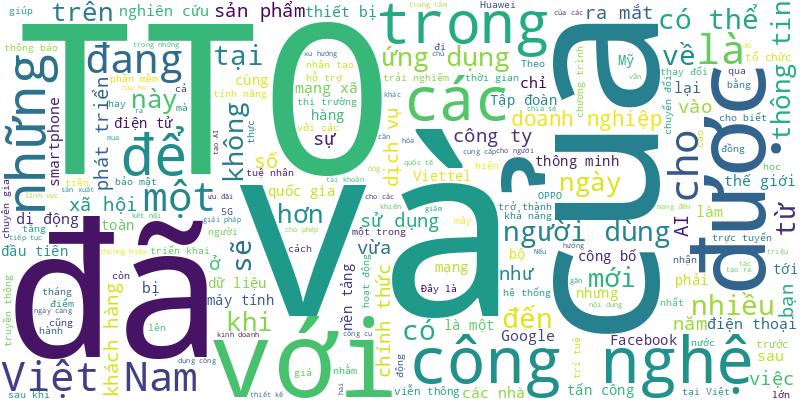
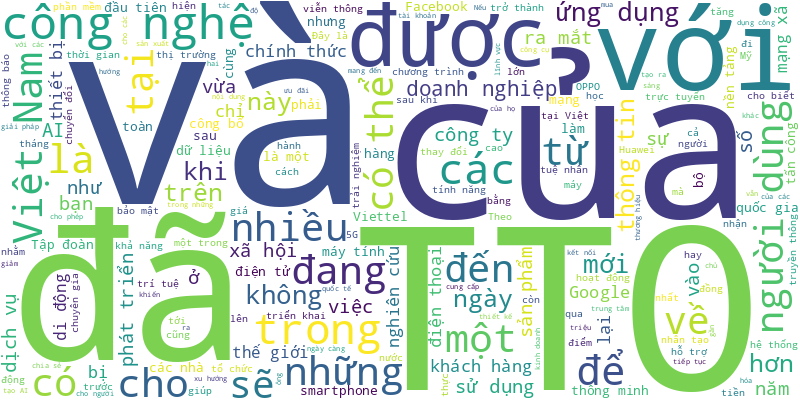
🍀 = 20%

diff --git a/README.md b/README.md
@@ -1,6 +1,17 @@
 # Tuoi Tre RSS 
 
 ## Giáo dục 
+- Kỳ thi độc lập, đánh giá năng lực của Trường đại học Sư phạm Hà Nội năm 2025 sẽ thi vào ngày 17 và 18-5-2025. Từ năm 2026, kỳ thi bổ sung thêm các môn giáo dục kinh tế và pháp luật, tin học, công nghệ.
+- Giáo viên phải đăng ký dạy thêm, đóng thuế rõ ràng như các ngành nghề khác.
+- UBND tỉnh Khánh Hòa cho hay sẽ sửa chữa và bàn giao khu ký túc xá sinh viên Nha Trang bỏ hoang nhiều năm cho Trường đại học Khánh Hòa quản lý.
+- Chiều 19-11, gần 40 học sinh Trường THCS Chi Lăng (quận 4, TP.HCM) đến tham quan và học tập thực tế tại Nhà máy mì Acecook Việt Nam.
+- Số sinh viên quốc tế tại Mỹ năm học 2023-2024 đã đạt mức cao kỷ lục, với hơn 1,1 triệu sinh viên, tăng 6,6% so với năm trước.
+- Sáng 21-11, cuộc thi quốc tế về nghiên cứu và thiết kế thiết bị bay không người lái (UAV Competition 2024) cho sinh viên đã diễn ra tại Trường đại học Tôn Đức Thắng.
+- Không khó để bắt gặp hình ảnh sinh viên đi xe không đội mũ bảo hiểm, tống ba, phóng nhanh… trên nhiều tuyến đường tại làng đại học TP.HCM.
+- Trường THPT Nông Cống 2 vừa có quyết định đình chỉ học tập đối với 3 học sinh liên quan vụ đánh một nữ sinh bị gãy đốt sống cổ, phải điều trị gần 2 tháng nay.
+- Sở Giáo dục và Đào tạo TP.HCM vừa có văn bản hướng dẫn xác định nhiệm vụ chuyên môn của giáo viên trong hè.
+- Gửi trả lại món quà là 500.000 đồng phụ huynh chuyển khoản, thầy giáo nhắn: "Phụ huynh không nên vật chất hóa những món quà nhân Ngày Nhà giáo Việt Nam".
+- Bộ trưởng Bộ Giáo dục Abyei bày tỏ lòng cảm ơn tới các chiến sĩ "mũ nồi xanh" Việt Nam luôn yêu thương, chia sẻ và giúp đỡ người dân địa phương bằng những tình cảm chân thành và sâu sắc nhất, đặc biệt là đối với các cháu học sinh.
 - Ngày 20-11, Quốc hội thảo luận về dự thảo Luật Nhà giáo. Các nội dung liên quan chính sách đặc thù về tiền lương, tuyển dụng nhà giáo, dạy thêm đã nhận được nhiều ý kiến thảo luận của đại biểu.
 - Hành trình dạy học đối với cô giáo Phạm Minh Trang, giáo viên lớp 1/1 Trường tiểu học Đống Đa, quận Tân Bình, TP.HCM, là không ngừng đổi mới.
 - Giải thưởng Lê Văn Thới do giáo sư Lê Ngọc Thạch tài trợ vừa được tiếp tục trao cho người học có kết quả nghiên cứu khoa học xuất sắc.
@@ -990,19 +1001,70 @@
 - Trường đại học Y Dược TP.HCM vừa công bố nghị quyết bổ nhiệm phó hiệu trưởng phụ trách chuyên môn của nhà trường.
 - Năm học 2024 - 2025, TP.HCM sẽ lựa chọn các trường phổ thông công lập để thí điểm dùng tiếng Anh làm ngôn ngữ thứ 2 dạy học. Đây là bước đột phá của giáo dục TP.HCM trong năm học mới.
 - Các trường học cho rằng nếu học sinh được tự do dùng điện thoại, các em có thể xem nội dung có hại hoặc chơi trò chơi, dẫn tới không tập trung học.
-- Bộ Giáo dục và Đào tạo vừa có thông báo khẩn gửi các trường đại học trên cả nước yêu cầu thực hiện tốt công tác xét tuyển và lọc ảo trong ngày cuối.
-- Năm học 2024 - 2025, Giải Lê Quý Đôn trên ấn phẩm Nhi đồng TP.HCM bước vào mùa giải thứ 30 và Giải Lê Quý Đôn trên ấn phẩm Khăn Quàng Đỏ bước sang năm thứ 26.
-- Nhiều trường đại học sẽ công bố điểm chuẩn vào chiều tối nay 17-8, Tuổi Trẻ Online liên tục cập nhật, mời bạn đọc đón xem.
-- Ngày 16-8, Nhà xuất bản Đại học Sư phạm TP.HCM đã ra mắt bộ sách "Học tiếng Anh với người nước ngoài" (Global Gateway) cho học sinh từ lớp 1 đến lớp 12, nhằm tăng cường khả năng nghe, nói tiếng Anh cho học sinh theo chương trình phổ thông 2018.
-- Bộ Giáo dục và Đào tạo sẽ ban hành quy chế tuyển sinh lớp 10 theo chương trình mới thống nhất trên toàn quốc.
-- Ban giám hiệu nhà trường nhận thấy việc ra quyết định "dừng đào tạo" học sinh là chưa hợp lý, quan tâm đến từng học sinh nhưng chưa đúng phương pháp.
-- Trường cao đẳng Việt Nam liệu có đủ sức tham gia vào 'cuộc chơi' đào tạo lao động cho các ngành về công nghệ bán dẫn?
-- Trường cao đẳng Sư phạm Đắk Lắk mắc nhiều sai phạm và bị đánh giá là chậm khắc phục, trong đó có việc 100 sinh viên tuyển vượt chỉ tiêu, chưa được cấp bằng.
-- Thứ trưởng Bộ Giáo dục và Đào tạo Phạm Ngọc Thưởng đã yêu cầu TP.HCM sớm có trường phổ thông dùng tiếng Anh là ngôn ngữ thứ 2.
-- Phát hiện hai em nhỏ bị rơi xuống sông đuối nước, ba học sinh lớp 8 đã lao tới cứu các em, đưa lên bờ an toàn.
-- Các bài học về kỹ năng sống phải được thiết kế thiết thực hơn. Sự trải nghiệm quan trọng nhất là trải nghiệm thực tế cuộc sống.
 ![Edu](Edu.png)
 ## Thời Sự 
+- Sáng 22-11, Vietnam Airlines Group (gồm Vietnam Airlines, Pacific Airlines và VASCO) thông báo cung ứng thêm hơn 650.000 ghế, tương đương hơn 3.000 chuyến bay trên các chặng bay nội địa Việt Nam dịp Tết 2025.
+- Lực lượng chức năng quận Bình Tân đã làm việc với thanh niên đạp thẳng vào tay lái của người chạy xe máy chở hàng khiến người này ngã nhào xuống đường.
+- TP.HCM tổ chức hội thảo trọng điểm, tập trung đổi mới phương thức lãnh đạo, tinh gọn bộ máy, hướng tới kỷ nguyên mới quản lý hiệu quả và phát triển bền vững.
+- Sau khi làm việc, Phòng Cảnh sát giao thông Công an tỉnh Đắk Lắk đã tước bằng lái 2 tháng tài xế dừng xe đón khách giữa quốc lộ 26.
+- Sau khi bị khởi tố, bắt tạm giam vì chiếm giữ nhà trái phép của mẹ già, vợ chồng người con trai đã nhận thức được hành vi của mình và tự nguyện trả lại nhà.
+- Chuyến công tác 6 ngày của Thủ tướng Phạm Minh Chính đã góp phần nâng cao vị thế Việt Nam, củng cố quan hệ song phương với Brazil và Cộng hòa Dominica.
+- Người dân Cộng hòa Dominica, với những chiếc mũ cối cùng cờ đỏ sao vàng, đã xuất hiện tại công viên Hồ Chí Minh để chào đón các vị khách quý ngày 21-11.
+- Tin tức đáng chú ý: Vợ và con gái sếp ngân hàng VIB bỏ hàng trăm tỉ mua cổ phiếu; Quốc hội thảo luận 2 dự luật thuế quan trọng; Năm 2025, ngành y tế TP.HCM ưu tiên nâng cấp và xây mới ba bệnh viện xuống cấp...
+- Hôm nay 22-11, thời tiết miền Trung có đợt mưa to đến rất to, miền Bắc nắng lạnh, còn miền Nam nhiều mây, ngày nắng.
+- Chủ tịch Quốc hội Trần Thanh Mẫn đã ký ban hành nghị quyết về việc sáp nhập đơn vị cấp xã của TP.HCM giai đoạn 2023 - 2025.
+- Sau khi hái nấm rừng về nấu canh, ăn xong 8 người dân ở huyện miền núi Tây Giang, tỉnh Quảng Nam bị ngộ độc.
+- Chủ tịch Quốc hội Trần Thanh Mẫn đã ký nghị quyết của Ủy ban Thường vụ Quốc hội về sáp nhập phường, xã của Hà Nội giai đoạn 2023 - 2025.
+- TP.HCM kiến nghị miễn phí vé cho người có công cách mạng, người khuyết tật, người cao tuổi, trẻ em dưới 6 tuổi, người đi các tuyến xe buýt kết nối với metro số 1 và người đi metro trong 30 ngày.
+- Đó là dự kiến của Bảo hiểm xã hội Việt Nam nêu ra trong hội thảo quốc tế về tăng cường hợp tác quốc tế, nâng cao năng lực.
+- Bé gái 5 tuổi ở tỉnh Vĩnh Phúc trong lúc đang chơi quanh nhà thì bị hai con chó béc giê của chính gia đình mình nuôi cắn chết.
+- Sở Tài nguyên và Môi trường TP.HCM được phân công chủ trì xây dựng quy định giao, cho thuê đất công xen kẹt sẽ gỡ cho hàng trăm dự án vướng đất này.
+- Gắn bó với Trung tâm Nuôi dưỡng phục hồi chức năng nạn nhân chất độc da cam/dioxin Nghĩa Thắng (tỉnh Quảng Ngãi) từ ngày thành lập, bà Nguyễn Thị Hường (70 tuổi) rất đau lòng khi trung tâm dừng hoạt động.
+- Sau bài viết 'Bát nháo khám sức khỏe để đi nước ngoài: Không phiếu thu, đóng tiền vào tài khoản cá nhân' của Tuổi Trẻ Online, hai bệnh viện đã kiểm điểm, luân chuyển công tác người vi phạm.
+- Anh Tôn Thất Tín (27 tuổi, nạn nhân mất tích trong vụ xe chở rác lao khỏi cầu treo ở Huế xuống sông) chỉ còn khoảng một tuần nữa là đón con đầu lòng.
+- 5 ngư dân tỉnh Quảng Bình đánh cá ở vùng biển phía đông đảo Cồn Cỏ thì gặp sóng to, vỡ ván nên thuyền bị chìm.
+- Sau khi tổ chức lấy ý kiến người dân về đơn giá bồi thường và được đa số hộ dân thống nhất, trong tháng 12 TP Thủ Đức sẽ chi trả tiền bồi thường giải phóng mặt bằng vành đai 2.
+- Chiều 21-11, nhiều đại biểu nữ mặc áo dài tím như ngầm gửi tình cảm và sự ủng hộ việc thành lập TP Huế trực thuộc trung ương.
+- Phó chủ tịch UBND TP.HCM Bùi Xuân Cường làm tổ trưởng tổ công tác giải quyết các dự án tồn đọng để triển khai, hoàn thành, đưa vào sử dụng nhằm chống lãng phí, thất thoát.
+- Các công trình nằm phía biển dọc đường Thùy Vân, Vũng Tàu đã giải tỏa để làm dự án chỉnh trang con đường này nhưng còn một khu vực chưa giải tỏa.
+- Hiện TP.HCM chỉ có 35 đơn vị được cấp phép kinh doanh hóa chất hạn chế, trong đó có xyanua. Việc kinh doanh phải được Bộ Công Thương thẩm định, cấp phép.
+- Thường trực Tỉnh ủy Bà Rịa - Vũng Tàu vừa ban hành công văn yêu cầu tăng cường kỷ luật, kỷ cương hành chính. Trong đó có yêu cầu không để trào lưu luyện tập pickleball ảnh hưởng đến công việc.
+- Ngày 21-11, ông Nguyễn Văn Hòa - chủ tịch UBND huyện Nông Sơn, tỉnh Quảng Nam - cho hay đã ký ban hành quyết định công bố dịch bệnh dại động vật (chó dại) trên địa bàn huyện.
+- Viện Cây ăn quả miền Nam đã tổ chức lễ đón nhận Huân chương Lao động hạng nhất và kỷ niệm 30 năm thành lập viện 1994-2024.
+- Ngày 20-11, tại Trụ sở Trung ương Đảng, Bộ Chính trị, Ban Bí thư đã xem xét, thi hành kỷ luật tổ chức đảng, đảng viên có vi phạm, khuyết điểm.
+- Do mâu thuẫn với chồng, người phụ nữ ở huyện miền núi Tây Giang, tỉnh Quảng Nam hái 6 lá ngón ăn để tự tử, rất may được cứu sống.
+- Trong quá trình cải tạo hệ thống thoát nước trên phố Tây Sơn (Đống Đa, Hà Nội), các công nhân đã phát hiện gần 150 bộ hài cốt có độ sâu gần 1 mét so với mặt đường.
+- Những công việc còn lại của dự án đường sắt đô thị số 1 Bến Thành - Suối Tiên (metro số 1) đang được các bên liên quan tập trung hoàn thiện. Dự kiến ngày 22-12, tuyến tàu điện này sẽ 'lăn bánh' chạy thương mại.
+- Tài xế xe buýt tuyến 69 ngang nhiên cho xe chạy ngược chiều ở khu dân cư Vĩnh Lộc, quận Bình Tân (TP.HCM) khiến người dân bức xúc.
+- Tỉnh Quảng Nam đã 5 lần đề nghị Bộ Lao động - Thương binh và Xã hội xem xét, công nhận liệt sĩ đối với anh Trần Văn Quý, cán bộ kiểm lâm mất khi trục vớt gỗ lậu ở sông, thế nhưng nhận được câu trả lời không đủ điều kiện để công nhận.
+- Tỉnh Thừa Thiên Huế đã cho đóng đập thủy điện Bình Điền ở thượng nguồn sông Hữu Trạch, để phục vụ tìm kiếm 2 người mất tích trong vụ xe chờ rác lao xuống cầu treo Bình Thành.
+- Chương trình kỳ họp thứ 8 của Quốc hội được điều chỉnh lần thứ 2, trong đó bổ sung nội dung tháo gỡ khó khăn cho Vietnam Airlines, xem xét tiếp tục giảm 2% thuế VAT.
+- Quan hệ Việt Nam - Malaysia đánh dấu cột mốc mới khi hai nước nâng cấp lên quan hệ Đối tác chiến lược toàn diện, nhân chuyến thăm chính thức của Tổng Bí thư Tô Lâm và Phu nhân đến Malaysia.
+- Chiều 21-11, Quốc hội đã biểu quyết thông qua Luật sửa đổi, bổ sung một số điều Luật Dược, trong đó quy định về kinh doanh dược qua thương mại điện tử.
+- Ngày 21-11, ông Võ Thành Ngoan - chủ tịch UBND huyện Thanh Bình, tỉnh Đồng Tháp - cho biết việc cấp giấy phép môi trường cho công ty sản xuất giá thể hữu cơ bị người dân phản ánh gây ô nhiễm đã được ngành chuyên môn thẩm định nhiều lần.
+- Chiều 21-11, Chủ tịch Quốc hội Trần Thanh Mẫn lên đường thăm chính thức Campuchia, tham dự hội nghị quốc tế các đảng chính trị châu Á, phiên họp nghị viện quốc tế vì bao dung và hòa bình.
+- Để trúng thầu, giám đốc doanh nghiệp đã liên hệ với hai doanh nghiệp khác làm "quân xanh" dự thầu với giá cao hơn mình. Đây là hành vi thông thầu phạm tội "vi phạm quy định về đấu thầu gây hậu quả nghiêm trọng".
+- Năm trụ bơm của một cửa hàng xăng dầu ở Vũng Tàu vừa bị cơ quan chức năng thông báo tạm dừng sử dụng với lý do bị tác động để ăn gian xăng dầu của khách hàng.
+- Những nguy cơ đe dọa an ninh phi truyền thống trên thế giới xuất hiện rất nhiều ở Việt Nam với tác hại vô cùng nghiêm trọng, đặt ra yêu cầu cần sớm chủ động phòng ngừa, ứng phó.
+- Bộ Xây dựng vừa đề nghị tỉnh Lâm Đồng làm rõ đề xuất xây biệt thự nghỉ dưỡng bên hồ Than Thở, TP Đà Lạt để bán, cho thuê, phục vụ lưu trú, tham quan, nghỉ dưỡng.
+- Mạng xã hội đang lan truyền thông tin một thanh niên đi xe máy giơ chân đạp vào tay lái xe máy của một người đàn ông khiến người này ngã nhào xuống đường ở quận Bình Tân, TP.HCM.
+- Khi thực hiện dịch vụ công trực tuyến, người dân có thể đánh giá chất lượng phục vụ của cán bộ trên Hệ thống thông tin giải quyết thủ tục hành chính TP.HCM.
+- Hàng ngàn người dân đã tập trung về thị trấn Sông Đốc xem các vận động viên từ các tỉnh miền Tây đua vỏ lãi.
+- Cục Khoáng sản (Bộ Tài nguyên và Môi trường) cho rằng thẩm quyền xử lý vướng quy hoạch khoáng sản dẫn đến không thể làm hồ bùn đỏ bô xít thuộc Bộ Công Thương.
+- Không khó để bắt gặp hình ảnh sinh viên đi xe không đội mũ bảo hiểm, tống ba, phóng nhanh… trên nhiều tuyến đường tại làng đại học TP.HCM.
+- Theo Công an tỉnh Bình Thuận, số tiền người nghiện, người sử dụng trái phép chất ma túy phải chi trả cho việc mua ma túy để sử dụng có thể lên đến 15.000 tỉ đồng/năm.
+- Tại thời điểm xảy ra tai nạn trên cao tốc Phan Thiết - Dầu Giây khiến phụ xe chết tại chỗ, dữ liệu hộp đen của xe khách không còn, trong khi xe đầu kéo vẫn còn.
+- Lê Văn Hoàng Vũ, nam thanh niên người Quảng Nam lừa đảo dưới hình thức trao đổi vợt pickleball, cầu lông trên mạng rồi chiếm đoạt của người khác bán lấy tiền.
+- Sáng 21-11, Biên đội tàu 263, 265 thuộc Bộ Tư lệnh Vùng 5 Hải quân Việt Nam đã cập quân cảng Vùng 5, kết thúc tốt đẹp chuyến tuần tra chung thường niên lần thứ 50 với Biên đội tàu 511, 521 của Hải quân Hoàng gia Thái Lan.
+- Bộ Giao thông vận tải đã giải trình ý kiến nêu với 23 ga đường sắt tốc độ cao Bắc - Nam, mỗi ga dừng 5 phút, từ Hà Nội vào TP.HCM mất 7 giờ chứ không thể 5,5 giờ.
+- Khu đất muốn làm dự án nhà ở thương mại phải tuân thủ, phù hợp quy hoạch khu dân cư nên không quan ngại việc thí điểm sẽ làm giảm đất nông nghiệp, ảnh hưởng đến an ninh lương thực.
+- UBND TP.HCM vừa ban hành quyết định giá vé dịch vụ vận tải hành khách công cộng trên tuyến đường sắt đô thị số 1 Bến Thành - Suối Tiên (metro số 1).
+- Một người phụ nữ ở Hà Tĩnh trong quá trình đi xin quần áo cũ phát hiện trong tủ của gia chủ có hộp trang sức nên đã lén lấy trộm mang về đem bán.
+- TP.HCM sẽ thi đua trong khoảng 400 ngày đêm để hoàn thành dự án đường vành đai 3, góp phần hoàn thành 3.000km đường bộ cao tốc trước cuối năm 2025.
+- Liên quan tình trạng xe chạy đường cấm, giờ cấm vùng ven TP.HCM, đại tá Nguyễn Đình Dương, phó giám đốc Công an TP.HCM, chỉ đạo các đơn vị, lực lượng tăng cường công tác kiểm tra, xử lý.
+- Vì sao 'hung thần'  xe ben vẫn ung dung tung hoành dù các quy định giao thông hiện hành rất cụ thể, rõ ràng?
+- Do đợt không khí lạnh này về rất khô, trời ít mây và có nắng nên nhiệt độ thấp nhất thường rơi vào đêm và sáng sớm, ban ngày ít cảm nhận được lạnh.
+- Lực lượng cứu hộ tỉnh Thừa Thiên Huế đang tìm kiếm hai người trên một chiếc xe chở rác đâm vào lan can rồi lao xuống cầu treo Bình Thành mất tích.
 - Từ thực tế gỡ vướng cho dự án Nhiệt điện Thái Bình 2, những dự án ngàn tỉ đồng hiện đang còn vướng mắc có cách nào để giải quyết?
 - Sự hồi sinh Nhà máy nhiệt điện Thái Bình 2, đạm Ninh Bình, xơ sợi Đình Vũ... thời gian qua cho thấy có thể chặn đứng lãng phí ở những đại dự án ngàn tỉ đồng "đắp chiếu" nhiều năm.
 - Ngày 20-11, Quốc hội thảo luận về dự thảo Luật Nhà giáo. Các nội dung liên quan chính sách đặc thù về tiền lương, tuyển dụng nhà giáo, dạy thêm đã nhận được nhiều ý kiến thảo luận của đại biểu.
@@ -1941,70 +2003,9 @@
 - Các tỉnh thành vừa lấy ý kiến hoặc ban hành mức giá cho thuê nhà ở xã hội.
 - Trong tuần qua báo Tuổi Trẻ tiếp tục nhận rất nhiều thông tin của bạn đọc phản ánh và Tuổi Trẻ đã nhanh chóng phản hồi.
 - Temu có nguy cơ bị chịu mức phạt lên tới 6% doanh thu toàn cầu hằng năm của nền tảng này sau khi Liên minh châu Âu (EU) mở cuộc điều tra.
-- Nhiều người có các khoản thu nhập vãng lai nhỏ nhận thông báo yêu cầu kê khai thuế bổ sung và truy thu, phạt, tính tiền chậm nộp số tiền khủng.
-- Xe tải và xe container xảy ra va chạm trên quốc lộ 22, huyện Củ Chi (TP.HCM), khiến hai vợ chồng kẹt cứng trong cabin, người dân hỗ trợ dùng dây cáp kéo giãn cabin, cứu người bị nạn.
-- Gia đình hiếm muộn được hoàn tiền nếu thụ tinh ống nghiệm không thành công; Người mua vàng gặp khó, "chợ mạng" sôi nổi.
-- Hôm nay 3-11, không khí lạnh ảnh hưởng nhiều nơi ở Bắc Bộ. Trung Bộ mưa to đến rất to, còn Nam Bộ thời tiết có lúc mưa rào.
-- Đoạn clip ghi cảnh tài xế xe buýt vừa lái xe vừa bấm điện thoại trên đường Lý Thường Kiệt khiến nhiều người bức xúc.
-- Chủ tịch Quốc hội Cuba Esteban Lazo Hernández trân trọng cảm ơn sự hỗ trợ, đồng thời cho biết Cuba rất quan tâm trao đổi và học hỏi các kinh nghiệm phong phú của Việt Nam.
-- Căn hộ ở tầng cao block A3 chung cư The Era Town Đức Khải, phường Phú Mỹ, quận 7, TP.HCM bốc cháy tối 2-11.
-- Cơn mưa cực lớn và kéo dài đúng lúc có triều cường nên nhiều tuyến đường ở thành phố Bạc Liêu (tỉnh Bạc Liêu) ngập nặng. Có nơi lượng mưa đo được hơn 221mm.
-- Do ảnh hưởng của không khí lạnh và gió đông nên từ sáng mai 3-11, ở miền Trung có mưa lớn trên diện rộng, nguy cơ cao xảy ra ngập lụt ở đô thị các tỉnh từ Hà Tĩnh đến Quảng Ngãi.
-- Lực lượng chức năng TP Cam Ranh (tỉnh Khánh Hòa) vẫn đang tiến hành thu thập thông tin để xác định danh tính 1 hài cốt liệt sĩ được tìm thấy ở nương rẫy trên địa bàn thành phố này.
-- Chủ tịch Quốc hội Cuba Esteban Lazo Hernandez đã bày tỏ điều này trong cuộc hội đàm với Chủ tịch Quốc hội Trần Thanh Mẫn tại Hà Nội ngày 2-11.
-- Đoạn đường sắt qua đèo Hải Vân đã chính thức thông đường sau sự cố tàu hàng bị trật bánh khi qua đèo ở Đà Nẵng.
-- Ngày 2-11, Ủy ban Kiểm tra Tỉnh ủy Đồng Nai đã phát đi thông báo về việc kiểm tra, giám sát và đề nghị kỷ luật một số tổ chức Đảng, đảng viên trên địa bàn.
-- Thành viên đoàn công tác Ủy ban Kinh tế của Quốc hội đồng tình kiến nghị đầu tư xây sớm đường băng thứ hai thuộc dự án sân bay Long Thành.
-- Một thi thể đang trong trạng thái phân hủy trong thùng container trên khu đất trống ở xã Phước Đồng, TP Nha Trang (Khánh Hòa) được người dân phát hiện.
-- Diễn đàn Trinity Forum 2024, sự kiện quốc tế hàng đầu trong lĩnh vực hàng không và bán lẻ du lịch, diễn ra tại TP.HCM từ ngày 5 đến 6-11, quy tụ hàng loạt thương hiệu lớn L'Oréal, Qatar Airways, Mondelēz, Diageo, Dubai Duty Free, China Duty Free...
-- Văn phòng đăng ký đất đai TP.HCM cho rằng đã đề nghị cấp sổ hồng cho gia đình ông Bùi Mộc từ tháng 5-2023, việc cấp sổ còn lại thuộc thẩm quyền của UBND quận Tân Bình.
-- Dự án di dời nghĩa trang Bình Hưng Hòa gần như hoàn tất công tác bốc mộ ở 2 giai đoạn đầu, bắt đầu giai đoạn 3.
-- Cuộc thi thiết kế cầu vượt biển vịnh Rạch Giá được quy định ngay từ đầu là cao không quá 45m. Thế nhưng có một đơn vị thiết kế cầu cao đến 78m.
-- Trong vụ án xảy ra ở dự án khu đô thị du lịch biển Phan Thiết, Cơ quan cảnh sát điều tra Bộ Công an đã kết luận 2 nội dung vi phạm chính.
-- Nội dung kiểm tra, xác minh, xử lý cần được gởi về Sở Thông tin và Truyền thông trước ngày 8-11 để báo cáo UBND tỉnh Khánh Hòa.
-- Sở Giao thông vận tải TP.HCM đề xuất tháo dỡ cầu sắt cũ Long Kiểng 50 tuổi, xuống cấp nghiêm trọng để đảm bảo an toàn, đỡ tốn phí quản lý.
-- Tàu cá Phú Yên bị đứt neo trôi dạt từ TP Tuy Hòa về phía bãi biển thị xã Đông Hòa, tỉnh Phú Yên. Công việc cứu hộ rất khó khăn do thời tiết bất lợi, sóng rất lớn.
-- PGS.TS Nguyễn Thị Kim Tiến cho biết Việt Nam đang đứng đầu các nước Đông Nam Á về ghép tạng với hơn 1.000 ca mỗi năm.
-- Trong 10 tháng đầu năm 2024, trên địa bàn TP.HCM đã xảy ra 1.235 vụ tai nạn giao thông làm 384 người chết và 765 người bị thương.
-- Chiều 2-11, tại Khánh Hòa diễn ra hội nghị công bố, trao quyết định của Bộ Chính trị điều động, chỉ định ông Nghiêm Xuân Thành - ủy viên Trung ương Đảng, bí thư Tỉnh ủy Hậu Giang - giữ chức bí thư Tỉnh ủy Khánh Hòa.
-- Khu quản lý đường bộ II cho rằng biển báo trên cao tốc Nghi Sơn - Diễn Châu là của Nhà nước, nên chỉ đạo xóa chữ không có trong thiết kế. Nhưng Tập đoàn Sơn Hải vẫn khẳng định đây là tài sản doanh nghiệp.
-- Kết luận điều tra xác định cựu bộ trưởng, chủ nhiệm Văn phòng Chính phủ Mai Tiến Dũng nhận 200 triệu “cảm ơn” từ đại gia Nguyễn Cao Trí. Cựu bí thư Lâm Đồng Trần Đức Quận nhận hối lộ 2,1 tỉ, cựu chủ tịch tỉnh nhận 4,2 tỉ.
-- Thái Lan là nơi điển hình về bảo tồn sếu bởi đã nuôi thả thành công, có thể nói "ban đầu người nuôi sếu, sau này sếu sẽ nuôi người" gắn với phát triển sinh kế, du lịch địa phương. Đó là ý kiến của đa số nhà tài trợ đề án bảo tồn sếu đầu đỏ.
-- Điểm sáng được Bộ Xây dựng ghi nhận, số dự án nhà ở được cấp phép mới và đủ điều kiện bán gia tăng trong quý 3-2024.
-- Phát biểu tại phiên thảo luận tổ Quốc hội, Tổng Bí thư Tô Lâm đã nêu việc hiện ngân sách đang chi gần 70% để trả lương, chi thường xuyên.
-- Thiếu tướng Nguyễn Ngọc Vân, giám đốc Công an tỉnh Sơn La, được điều động đến nhận công tác và giữ chức tư lệnh Cảnh sát cơ động kể từ ngày 6-11-2024.
-- Tòa án nhân dân cấp cao tại Đà Nẵng mới đây đã xét xử phúc thẩm vụ án cựu chủ tịch UBND quận Cẩm Lệ (Đà Nẵng) cùng các thuộc cấp về tội nhận hối lộ.
-- Đơn vị thi công đang đẩy nhanh tiến độ làm và dự kiến hoàn thành đưa vào sử dụng đường Suối Cái - Rạch Vẹm trong tháng 11-2024.
-- Trong chuyên đề về kỷ nguyên mới, kỷ nguyên vươn mình của dân tộc ngày 31-10, Tổng Bí thư Tô Lâm đã trao đổi về 7 định hướng chiến lược đưa đất nước bước vào kỷ nguyên mới, kỷ nguyên vươn mình của dân tộc.
-- Bảo tàng Lịch sử quân sự Việt Nam sẽ tạm đóng cửa, dừng đón khách trong vòng ba ngày, từ ngày 3 đến hết 5-11.
-- Ban Thường vụ Tỉnh ủy Hà Tĩnh công bố quyết định luân chuyển, điều động, bổ nhiệm 19 cán bộ chủ chốt.
-- Các cơ quan thực hiện nhiệm vụ phòng chống tham nhũng, tiêu cực tỉnh Khánh Hòa đã phát hiện, xử lý kỷ luật 85 đảng viên.
-- Bộ Quốc phòng đang lấy ý kiến về dự thảo nghị định của Chính phủ quy định tiêu chí, tiêu chuẩn thăng quân hàm cấp tướng vượt bậc và trước thời hạn.
-- Chủ tịch Quốc hội Trần Thanh Mẫn ký ban hành nghị quyết của Ủy ban Thường vụ Quốc hội về sáp nhập huyện, xã giai đoạn 2023 - 2025 của 21 tỉnh thành.
-- Một tàu trật bánh khỏi đường ray, hàng trăm hành khách trên tàu SE7, SE8 được trung chuyển từ ga Lăng Cô (Thừa Thiên Huế) vào ga Đà Nẵng và ngược lại.
-- Tin tức đáng chú ý: TP.HCM ban hành nhiều chính sách hỗ trợ trong trường hợp bị thu hồi đất; 7,1% người trưởng thành tại Việt Nam mắc đái tháo đường; TP Phan Rang - Tháp Chàm sáp nhập 5 phường xã...
-- Hôm nay 2-11, thời tiết các tỉnh Bắc Bộ lạnh, Nam Bộ mưa rào, Trung Bộ có mưa và chuẩn bị vào đợt mưa to dài ngày.
-- Xe tải cẩu chạy trên cao tốc Phan Thiết - Dầu Giây bất ngờ nổ lốp, lật ngửa, chắn ngang đường. Vụ việc khiến giao thông trên đường cao tốc kẹt xe kéo dài nhiều km.
-- Việc này giúp khai thác và phát triển tốt các quỹ đất có điều kiện chỉnh trang, tạo thành các khu đô thị nén xung quanh nhà ga tuyến metro số 1, 2, dọc vành đai 3… ở TP.HCM.
-- Ông Nguyễn Viết Hải, chủ tịch Tập đoàn Sơn Hải, hỏi như trên. Nhiều bạn đọc thì thắc mắc về quy định có cho phép ghi chữ trên biển báo giao thông không, trong khi Tập đoàn Sơn Hải khẳng định đây là biển thông báo của doanh nghiệp.
-- Bí thư Quận ủy quận Bình Tân (TP.HCM) chỉ đạo cơ quan chức năng quận cân nhắc tiến độ cưỡng chế tháo dỡ diện tích vi phạm tại chung cư Nguyễn Quyền phù hợp, bảo vệ quyền lợi cho các hộ dân.
-- Chủ tịch Quốc hội Trần Thanh Mẫn vừa ký ban hành nghị quyết về việc tăng thêm một thứ trưởng Bộ Nông nghiệp và Phát triển nông thôn.
-- Lực lượng chức năng đã cưỡng chế tháo dỡ tấm biển quảng cáo chữa bách bệnh bằng nước ion kiềm của ông Nguyễn Tiến Nam (sinh năm 1958, trú tại số nhà 47, đường Đìa 1, thôn Đìa, xã Bình Minh, Thanh Oai, Hà Nội) trong ngày 1-11.
-- Di tích Quốc Tử Giám triều Nguyễn sau nhiều năm là trụ sở của Bảo tàng Lịch sử Thừa Thiên Huế sắp được bàn giao, trả lại nguyên trạng cho Trung tâm Bảo tồn di tích cố đô Huế quản lý, tu bổ và phát huy giá trị.
-- Từ ngày 3 đến 5-11, miền Trung, đặc biệt khu vực từ Hà Tĩnh đến Đà Nẵng có mưa to đến rất to với lượng mưa phổ biến 200-400mm, có nơi trên 500mm.
-- Giám đốc Đại học Huế đã đưa ra khẳng định như trên. Việc thu học phí rẻ khiến câu chuyện tái đầu tư cho cơ sở hạ tầng để đạt tiêu chí đại học quốc gia gặp khó khăn.
-- Sau đợt mưa lũ, sò huyết dạt vào bờ biển khiến hàng trăm người dân thị xã Ba Đồn (Quảng Bình) đổ ra bãi biển nhặt. Đây là hiện tượng lạ với vùng biển này.
-- UBND thành phố Quảng Ngãi đang tìm kiếm một thiết kế logo đáp ứng các tiêu chí nhận diện và có ý nghĩa với xứ sở. Thiết kế đoạt giải nhất nhận thưởng 100 triệu đồng và được sử dụng làm biểu trưng cho thành phố.
-- Ngày 1-11, thông tin từ Bệnh viện Trường đại học Y Dược Cần Thơ cho biết bệnh viện này vừa phẫu thuật thành công lấy ra chiếc đũa trong vùng ổ mắt và vách mũi một nam bệnh nhân.
-- Theo phản ánh của người dân, ven đường dọc rạch Cầu Suối (xã Vĩnh Lộc B, huyện Bình Chánh, TP.HCM) đang trở thành nơi đổ rác bừa bãi.
-- Thầy hiệu trưởng trong clip '1.400 học sinh chia tay trước ngày nghỉ hưu' nói muốn được yêu mến, thầy giáo trước tiên phải trải lòng với học trò. Thầy là cha mẹ, nhưng cũng là bạn để các em tâm sự những nỗi niềm tuổi mới lớn.
-- Một vết nứt dài vừa được phát hiện trên một ngọn núi ở phía tây huyện Lệ Thủy (tỉnh Quảng Bình) sau mưa lũ. Chính quyền đang khẩn cấp di dời các hộ dân bên dưới chân núi.
-- Sau 50 ngày được điều trị tại Bệnh viện Bạch Mai, bé M.H.T.N. (11 tuổi) từng bị lũ cuốn trôi ở bản Làng Nủ, Lào Cai ngày đã được ra viện.
-- Liên quan vụ 21 con hổ, báo chết ở Đồng Nai, các mẫu xét nghiệm lấy tại khu du lịch Vườn Xoài liên tiếp âm tính với cúm gia cầm A/H5N1.
-- Đà Nẵng sẽ nghiên cứu kết hợp với thương mại dịch vụ tại các điểm nhà vệ sinh công cộng trên các tuyến đường du lịch.
-- Phường An Phú, An Cư và An Nghiệp được sáp nhập vào phường Thới Bình, quận Ninh Kiều để thành lập phường mới từ hôm nay.
 ![New](News.png)
 ## Nhịp sống số 
+- Hình thức, thành phần, nội dung của Ngày hội khởi nghiệp sáng tạo năm nay sẽ có điều chỉnh so với những năm trước.
 - Samsung đã đáp ứng nhu cầu khám phá và trải nghiệm công nghệ của người tiêu dùng theo cách khác biệt với cửa hàng Samsung West Lake.
 - Các quan chức chống độc quyền của Bộ Tư pháp Mỹ đã quyết định sẽ yêu cầu thẩm phán buộc Google bán các trình duyệt Chrome nhằm phá vỡ thế độc quyền.
 - Loại kính mới có thể chỉ cho shipper chính xác nơi cần đến trong tòa nhà, chẳng hạn như các hướng rẽ, và chụp ảnh các gói hàng sau khi giao xong.
@@ -3003,5 +3004,4 @@
 - TTO - Các nhà nghiên cứu tại đại học Newcastle (Anh) đã chế tạo được chiếc máy in 3D đầu tiên trên thế giới có khả năng in giác mạc người.
 - TTO - Một nghiên cứu quốc tế mới đây trên 605 bệnh nhân suy tim ở 6 quốc gia khác nhau bao gồm Mỹ, Ý, Đức, Thụy Điển, Israel và Hà Lan đã phát hiện ra rằng chơi video game có thể giúp cải thiện khả năng thể chất và chất lượng cuộc sống cho họ.
 - TTO - Theo Automation Readiness Index, 10 quốc gia sau đây hiện đang đứng đầu trong việc chuẩn bị cho những tiến bộ AI và IoT.
-- TTO - Chính phủ Mỹ vừa phát thông cáo cảnh báo với các chi tiết kỹ thuật về một loạt vụ tấn công trước nay, lùi về tới tận năm 2009 mà họ cáo buộc do hacker được chính phủ Triều Tiên “chống lưng” tấn công.
 ![life](Life.png)
